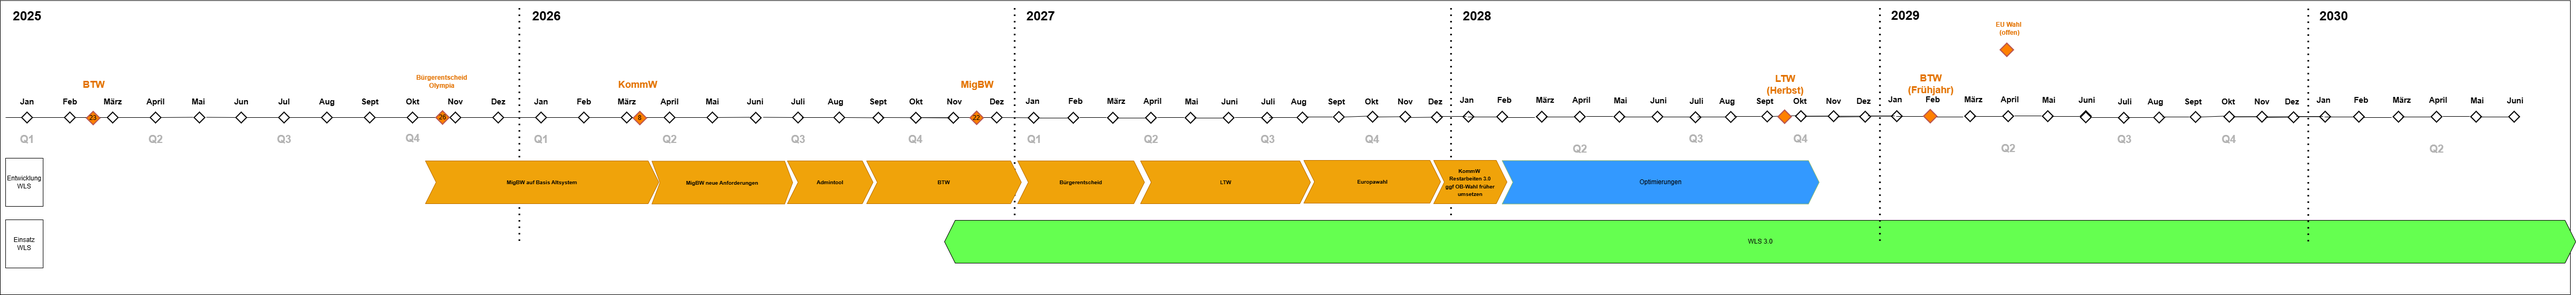
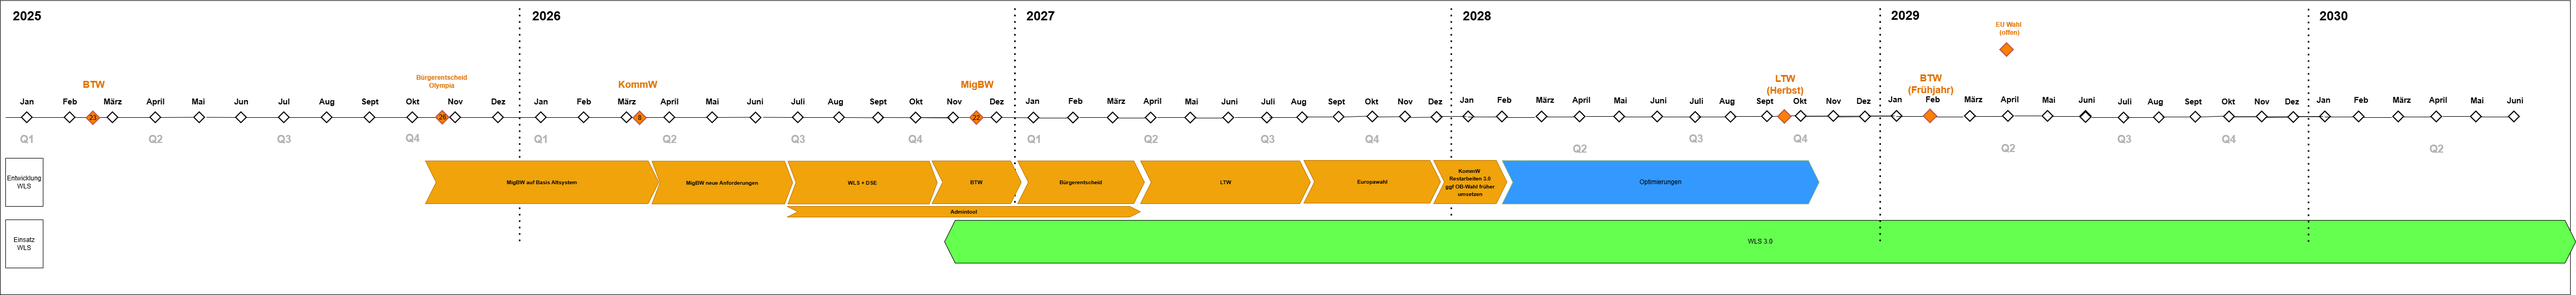
2601 beschreibung des zielprozesses DSE und Update Roadmap (#2884)
* begin doc for dse

* update roadmap with dse

---------

Changed region(s): [[0.2806, 0.6788, 0.4677, 0.7405], [0.3118, 0.5862, 0.343, 0.6479], [0.3118, 0.5245, 0.343, 0.5554]]

diff --git a/docs/.vitepress/theme/custom.css b/docs/.vitepress/theme/custom.css
@@ -3,6 +3,17 @@ We have large images that require more space. #1266 #1277*/
 :root {
   --vp-code-copy-copied-text-content: "In Zwischenablage kopiert!";
   --vp-layout-max-width: 100%;
+  --mermaid-new-process-steps-light-color: #edebeb;
+  --mermaid-new-process-steps-dark-color: #000000;
+}
+
+html.dark .newProcessStep > rect {
+  fill: var(--mermaid-new-process-steps-dark-color) !important;
+  stroke-width: 3 !important;
+}
+html .newProcessStep > rect {
+  fill: var(--mermaid-new-process-steps-light-color) !important;
+  stroke-width: 3 !important;
 }
 
 .VPDoc.has-aside .content-container {

diff --git a/docs/src/dse/index.md b/docs/src/dse/index.md
@@ -1,0 +1,59 @@
+# Digitale Stimmzettel Erfassung (DSE)
+
+Das bisherige Verfahren zur Erfassung von Ergebnissen mittels Stapelbildung soll verbessert werden.
+
+Mit den Stapeln waren diverse manuelle Arbeiten notwendig, die Zeit in Anspruch nehmen und potenzielle Fehlerquellen darstellen. Die
+digitale Erfassung der Stimmzettel verringert die Komplexität und die manuellen Schritte durch den Wahlvorstand. Die vorliegenden
+Stimmzettel werden im System erfasst. Das System berechnet aus den erfassten Daten das Ergebnis.
+
+Zur Migrationsbeiratswahl 2026 soll mit dem WLS eine erste Testversion der DSE ausprobiert werden.
+
+## Prozess
+
+```mermaid
+flowchart TD    
+    S1[Stimmabgabe ist beendet]
+    D2{UWB oder BWB?}
+    S2a[Stimmabgabevermerke und Wahlscheine zählen]
+    S2b[Wahlurne öffnen und Stimmzettel zählen]
+    S3[Stimmzettel vorbereiten]
+    S4[Stimmzettel erfassen]
+    S5[Stimmzettel ablegen]
+    S6[Beschlüsse zu Stimmzetteln fassen]
+    S7[Schnellmeldung ans Wahlamt übermitteln]
+    S8[Niederschrift erstellen, übermitteln und übergeben]
+    S9[Auszählung abschließen]
+
+    S1-->D2
+    D2-->|UWB| S2a
+    D2-->|BWB| S2b
+    S2a --> S3
+    S2b --> S3
+    S3 --> S4 --> S5 --> S6 --> S7 --> S8 --> S9
+
+    class S3,S4,S5,S6 newProcessStep;
+```
+
+Mit dem Schritt `Stimmzettel vorbereiten` beginnt der neue Prozess. Mit dem Schritt `Schnellmeldung ans Wahlamt übermitteln`
+ist man wieder im gewohnten Prozess.
+
+Die separate Übermittlung einer Schnellmeldung und Niederschrift hat wahlrechtliche Gründe.
+
+### Stimmzettel vorbereiten
+
+In diesem Schritt erfolgen vorbereitende Maßnahmen, um die Erfassung zu erleichtern. Der Stimmzettel wird z.B. vollständig
+entfaltet, und es werden Markierungen vorgenommen, die zeigen, wo man Stimmen findet.
+
+### Stimmzettel erfassen
+
+In diesem Schritt erfolgt die Erfassung der Stimmzettel im System. Stimmzettel, über die der gesamte Wahlvorstand einen
+Beschluss fassen muss, werden entsprechend markiert.
+
+### Stimmzettel ablegen
+
+Die erfassten Stimmzettel werden entsprechend der Regeln der Wahl für die Ablage vorbereitet. Stimmzettel, über die noch
+ein Beschluss zu fassen ist, landen so auf einem separaten Stapel.
+
+### Beschlüsse zu Stimmzetteln fassen
+
+Der Wahlvorstand fasst die Beschlüsse zu den zuvor markierten Stimmzetteln, und überträgt die Ergebnisse ins System.

diff --git a/docs/src/about/index.md b/docs/src/about/index.md
@@ -328,6 +328,8 @@ Stapel für die **Migrationsbeiratswahl**:
   | `B_C`         | Zweifelsfrei gültige Stimmen: verändert, mehrere Wahlvorschläge | Kandidat*innenstimmen     |
   | `D_Ungueltig` | Leere und ungekennzeichnete Stimmzettel                         |                           |
 
+Eine neue Auszählungsmethodik [ohne Stapel](../dse/) wird aktuell getestet.
+
 #### Nach der Auszählung
 
 📃 **UseCase: `Kontrolle, Übermittlung und Druck der Schnellmeldung`**

diff --git a/docs/src/index.md b/docs/src/index.md
@@ -9,4 +9,8 @@ hero:
   actions:
     - text: Getting started
       link: /technik/get_started
+    - text: Fachlicher Überblick
+      link: /about
+    - text: 🚧 Digitale Stimmzettel-Erfassung 🚧
+      link: /dse
 ---
